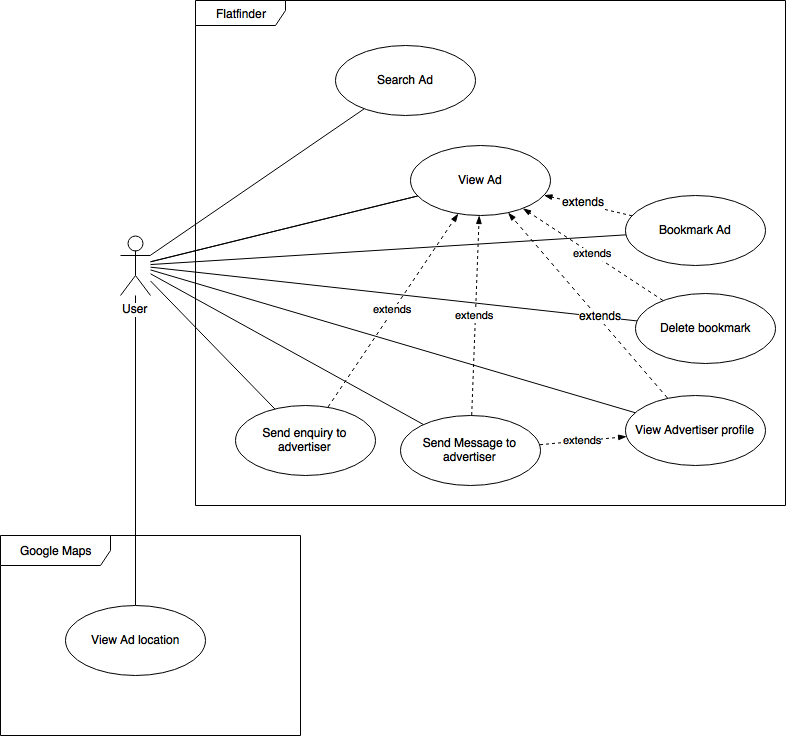
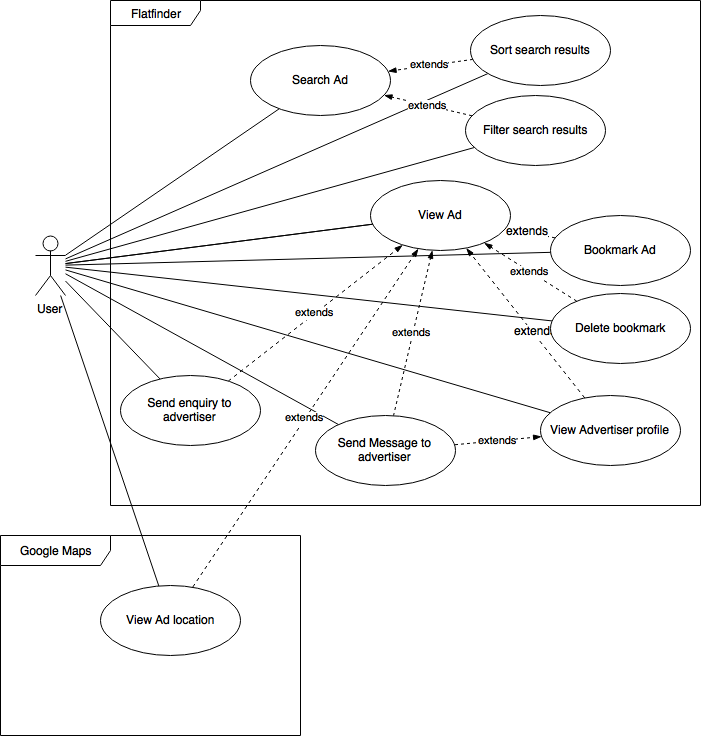
Added detailed description of use cases concerning viewing and searching ads. Added some missing use cases.

diff --git a/documentation/srs.md b/documentation/srs.md
@@ -80,7 +80,7 @@ The following sections describe abbreviations and special terms used in this doc
 
 |Use case element|Description|
 |:---|:---|
-|**ID**|uc01|
+|**ID**|`uc01`|
 |**Name**|Sign up|
 |**Description**|The user creates a flatfinder account.|
 |**Primary actor**|User visiting the web portal|
@@ -97,11 +97,11 @@ The following sections describe abbreviations and special terms used in this doc
 
 |Use case element|Description|
 |:---|:---|
-|**ID**|uc02|
+|**ID**|`uc02`|
 |**Name**|Login|
 |**Description**|The user logs into the application|
 |**Primary actor**|The user of the web application|
-|**Precondition**|The user has signed up for an account and visits the start page of the web portal.|
+|**Precondition**|The user has signed up for an account (`uc01`) and visits the start page of the web portal.|
 |**Trigger**|The user wants to use the application|
 |**Normal flow**|1. The user clicks on the button "login"|
 ||2. The login form is shown|
@@ -112,11 +112,11 @@ The following sections describe abbreviations and special terms used in this doc
 
 |Use case element|Description|
 |:---|:---|
-|**ID**|uc03|
+|**ID**|`uc03`|
 |**Name**|Edit public profile|
 |**Description**|The user edits his public profile, which is shown to other users.|
 |**Primary actor**|The user of the web application|
-|**Precondition**|The user is logged into the application.|
+|**Precondition**|The user is logged into the application. (`uc02`)|
 |**Trigger**|The user wants to edit his public profile.|
 |**Normal flow**|1. The user hovers over his user image in the header line of the web portal|
 ||2. The user clicks on the appearing button "Public profile"|
@@ -130,19 +130,150 @@ The following sections describe abbreviations and special terms used in this doc
 
 |Use case element|Description|
 |:---|:---|
-|**ID**|uc04|
+|**ID**|`uc04`|
 |**Name**|Logout|
 |**Description**|The user logs out of the application|
 |**Primary actor**|The user of the web application|
-|**Precondition**|The user is logged into the the application.|
+|**Precondition**|The user is logged into the the application. (`uc02`)|
 |**Trigger**|The user wants to leave the application|
 |**Normal flow**|1. The user hovers over his user image in the header line of the web portal|
 ||2. The user clicks on the appearing button "Logout"|
 ||3. The user is logged out and the start page of the web portal is shown|
-|**Alternate flow**||
+|**Alternate flow**|None|
 
 #### Searching and viewing ads
 ![Searching and viewing ads](images/Ad.png)
+
+|Use case element|Description|
+|:---|:---|
+|**ID**|`uc05`|
+|**Name**|Search ad|
+|**Description**|The user searches some ads which meet search criterias defined by the user.|
+|**Primary actor**|The user of the web application|
+|**Precondition**|The user visits the web portal.|
+|**Trigger**|The user wants to find specfific ads|
+|**Normal flow**|1. The user clicks on the button "Search" in the menu bar|
+||2. The search form is shown|
+||3. The user enters his search criteria|
+||4. The user clicks on the button "Search"|
+||5. The system shows a list with all ads which meet the search criteria and a form with the entered search criteria|
+|**Alternate flow**|If the user doesn't enter some required search criteria, validation error messages are shown.|
+||If no results are found, an appropriate message is shown.|
+
+|Use case element|Description|
+|:---|:---|
+|**ID**|`uc06`|
+|**Name**|Sort search result|
+|**Description**|The user sorts the displayed search results|
+|**Primary actor**|The user of the web application|
+|**Precondition**|The user performed a search and got some results (`uc05`)|
+|**Trigger**|The user wants to sort the search result according to some criteria|
+|**Normal flow**|1. The user selects the sort criteria|
+||2. The user clicks on the button "Sort"|
+||3. The results are shown in order according to the selected criteria|
+|**Alternate flow**|None|
+
+|Use case element|Description|
+|:---|:---|
+|**ID**|`uc07`|
+|**Name**|Filter search results|
+|**Description**|The user filters the displayed search results according to some extended criteria.|
+|**Primary actor**|The user of the web application|
+|**Precondition**|The user performed a search and got some results (`uc05`)|
+|**Trigger**|The user wants to filter the search results|
+|**Normal flow**|1. The user enters his search/filter criteria into the search/filter form|
+||2. The user clicks on the button "Filter"|
+||3. The system shows the filtered result and the selected filter criteria|
+|**Alternate flow**|If the user cancels the filtering in step 2, the filter form is reset to the original values before the user changed anything.|
+
+|Use case element|Description|
+|:---|:---|
+|**ID**|`uc08`|
+|**Name**|View ad|
+|**Description**|The user reads the detailed information (attributes, images, roommates, description and others) of an advertisement.|
+|**Primary actor**|The user of the web application|
+|**Precondition**|The user visits either the start page of the web portal or performed a successful search (`uc05`).|
+|**Trigger**|The user wants to see the details of an ad|
+|**Normal flow**|1. The user clicks on the ad|
+||2. The system shows detailed information about the ad|
+|**Alternate flow**|None|
+
+|Use case element|Description|
+|:---|:---|
+|**ID**|`uc09`|
+|**Name**|Bookmark ad|
+|**Description**|The user can bookmark an ad so that can easily find it again.|
+|**Primary actor**|The user of the application|
+|**Precondition**|The user is logged in `uc02` and views a specific ad `uc08` of which he's not the creator|
+|**Trigger**|The user likes some ad and wants to easily find it again later|
+|**Normal flow**|1. The user clicks on the button "Bookmark"|
+||2. The systems saves the bookmark and marks the ad as bookmarked|
+|**Alternate flow**|None|
+
+|Use case element|Description|
+|:---|:---|
+|**ID**|`uc10`|
+|**Name**|Delete bookmark|
+|**Description**|The user removes the bookmark from a previously bookmarked room.|
+|**Primary actor**|The user of the web application|
+|**Precondition**|The user is logged in `uc02` and views an add which he has previously bookmarked `uc09`.|
+|**Trigger**|The user doesn't need a specific bookmark anymore|
+|**Normal flow**|1. The user clicks on the button "Bookmarked"|
+||2. The system deletes the bookmark and removes the bookmark from the ad|
+|**Alternate flow**|None|
+
+|Use case element|Description|
+|:---|:---|
+|**ID**|`uc11`|
+|**Name**|View advertiser profile|
+|**Description**|The user views information about the advertiser of a specific ad|
+|**Primary actor**|The user of the web application|
+|**Precondition**|The user views a specific ad `uc08`|
+|**Trigger**|The user wants to see information about the advertiser|
+|**Normal flow**|1. In the information panel about the advertiser, the user clicks on the button "Visit profile"|
+||2. The system shows all information about the advertiser|
+|**Alternate flow**|None|
+
+|Use case element|Description|
+|:---|:---|
+|**ID**|`uc12`|
+|**Name**|Send message to advertiser|
+|**Description**|The user contacts the advertiser by sending him a message|
+|**Primary actor**|The user of the web application|
+|**Precondition**|The user is logged in `uc02` and views a specific ad `uc08` or visits the advertiser profile `uc11`|
+|**Trigger**|The user wants to contact the advertiser of a specific ad|
+|**Normal flow**|1. The user clicks on the button "Contact advertiser" (on ad details page) or "Message" (on advertiser profile page)|
+||2. The system shows a popup with a form for sending a message|
+||3. The user enters a subject and the message|
+||4. The user clicks on the button "Send"|
+||5. The message is sent to the advertiser|
+|**Alternate flow**|If the user doesn't fill up the form correctly in step 3, the message is not sent.|
+||If the user cancels the process, the popup is hidden and no message is sent.|
+
+|Use case element|Description|
+|:---|:---|
+|**ID**|`uc13`|
+|**Name**|Send enquiry to advertiser|
+|**Description**|The user send a visiting request to the advertiser|
+|**Primary actor**|The user of the web application|
+|**Precondition**|The user is logged in `uc02` and views a specific ad `uc08`|
+|**Trigger**|The user wants to visit a specific room/studio|
+|**Normal flow**|1. The user chooses the visiting time from the list of the available visiting times|
+||2. The user clicks on the button "Send enquiry to advertiser" next to the desired visiting time|
+||3. The system saves the enquiry and sends it to the advertiser|
+|**Alternate flow**|None|
+
+|Use case element|Description|
+|:---|:---|
+|**ID**|`uc14`|
+|**Name**|View ad location|
+|**Description**|The user can see the location of the room/studio on a map|
+|**Primary actor**|The user of the web application|
+|**Precondition**|The user views a specific ad `uc08`|
+|**Trigger**|The user wants to see the location of a specific room/studio|
+|**Normal flow**|1. The user clicks on the address of the room/studio|
+||2. The browser opens the GoogleMaps web page and displays the location of the room/studio on the map|
+|**Alternate flow**|None|
 
 #### Creating an ad
 ![Creating an ad](images/CreateAd.png)
